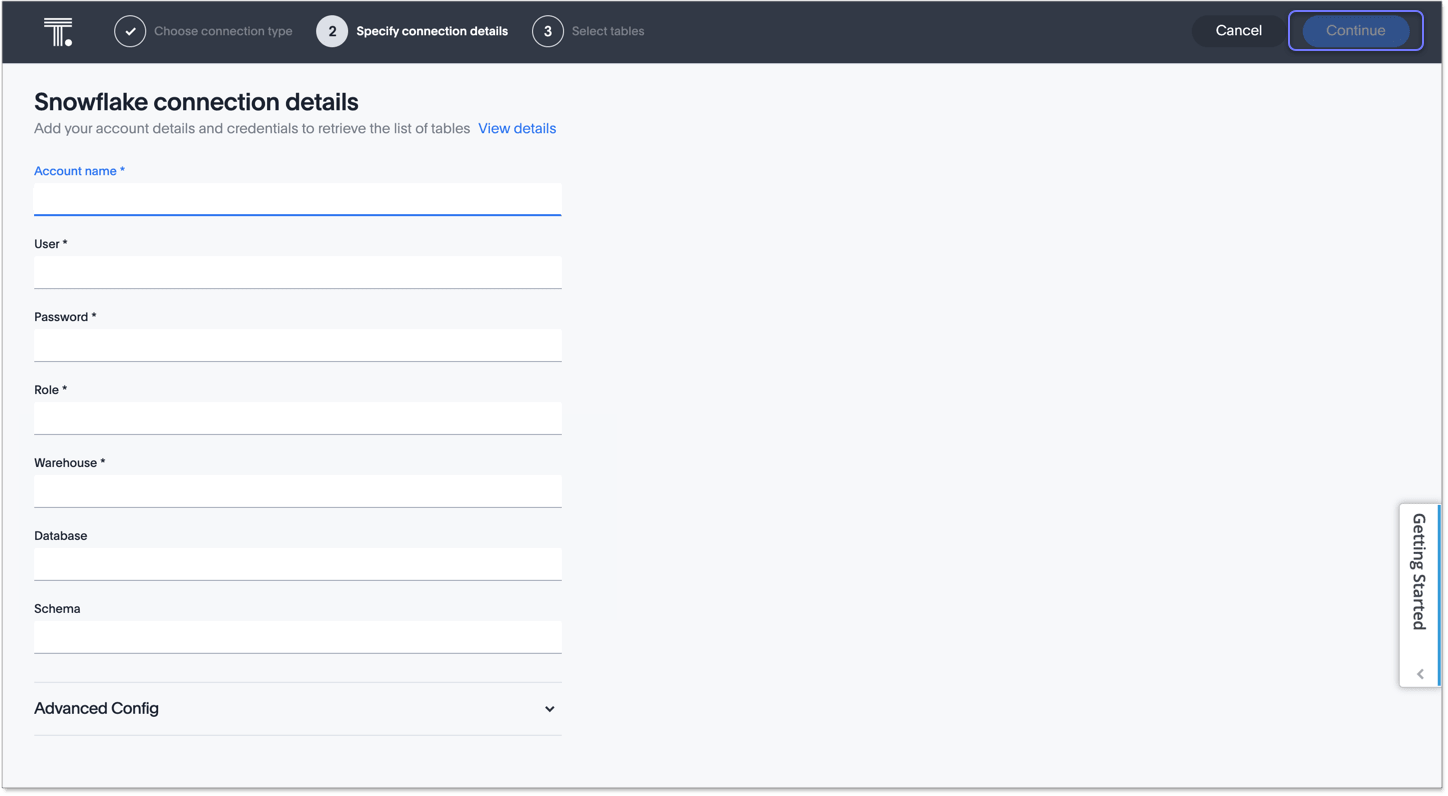
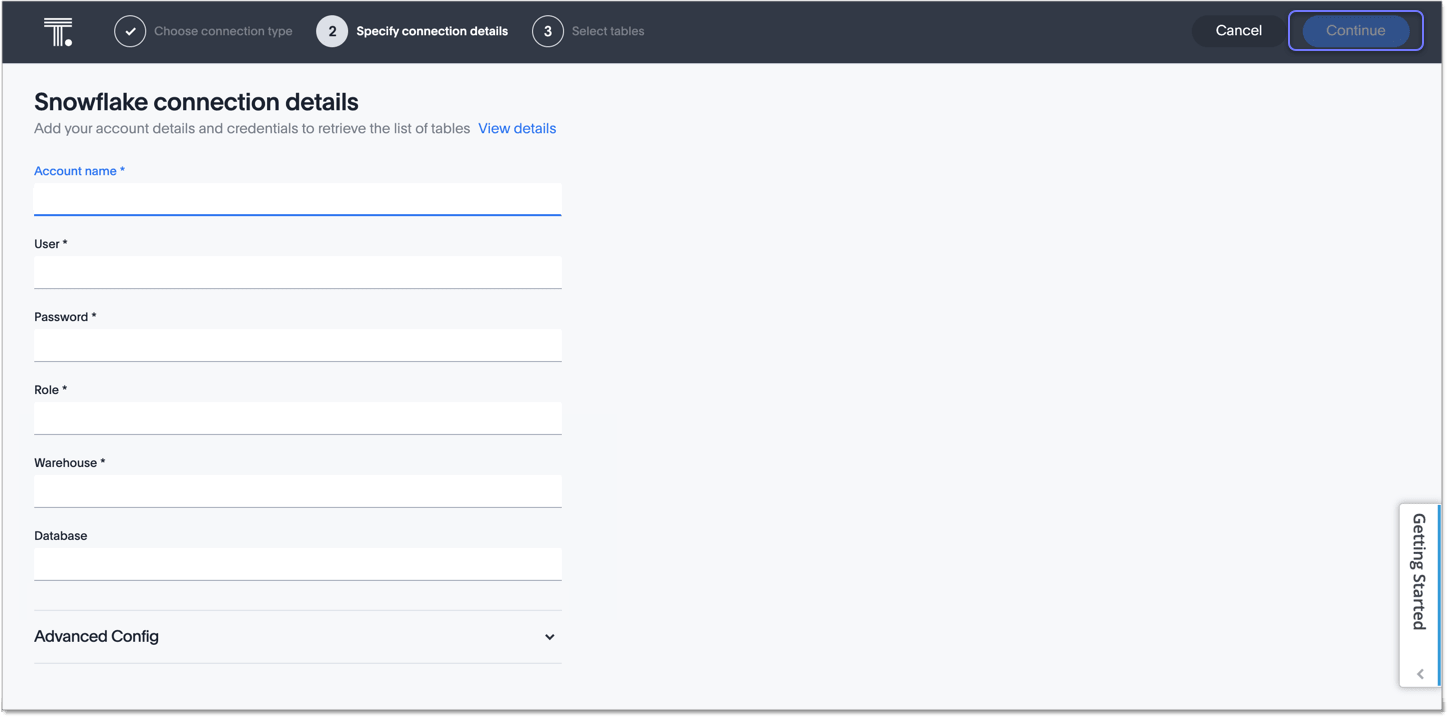
embrace snowflake changes

diff --git a/_data-integrate/embrace/embrace-snowflake-reference.md b/_data-integrate/embrace/embrace-snowflake-reference.md
@@ -43,8 +43,4 @@ Here is a list of the fields of a Snowflake connection in ThoughtSpot Embrace. Y
     <dt>Database</dt>
     <dd>Specify the database associated with the account. <i>(Optional)</i></dd>
   </dlentry>
-  <dlentry id="embrace-snowlake-ref-schema">
-    <dt>Schema</dt>
-    <dd>Specify the schema associated with the database. <i>(Optional)</i></dd>
-  </dlentry>
 </dl>
